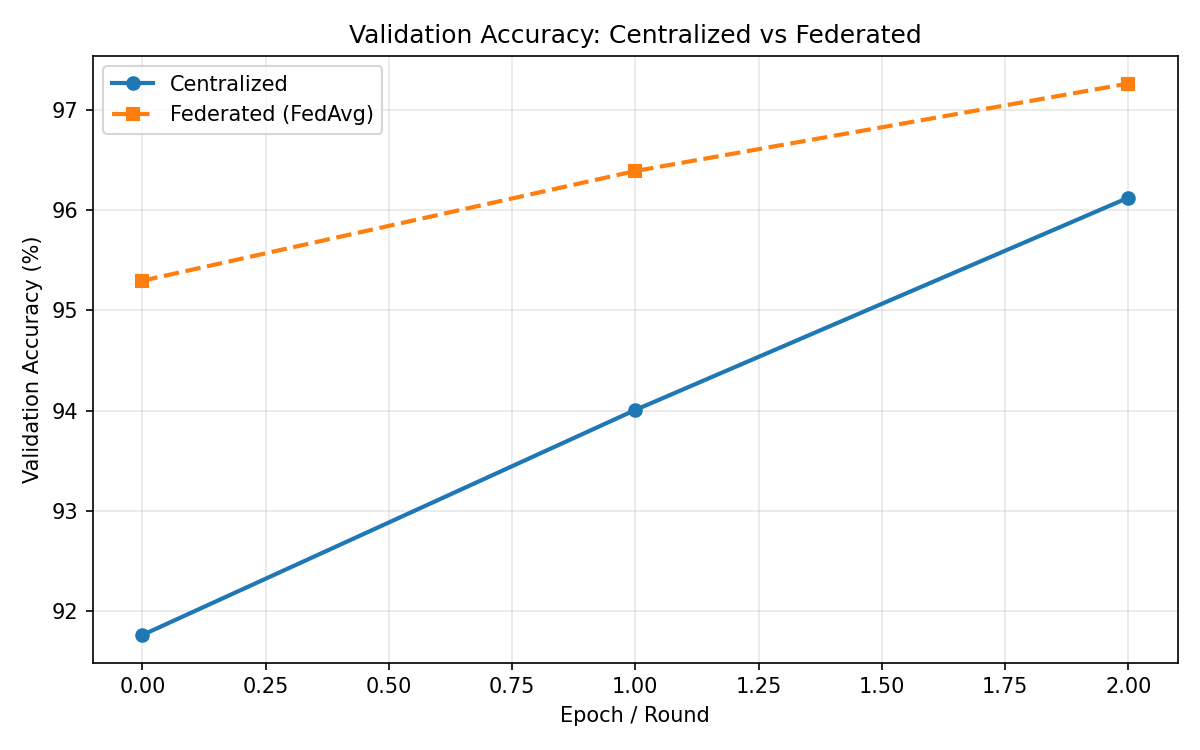
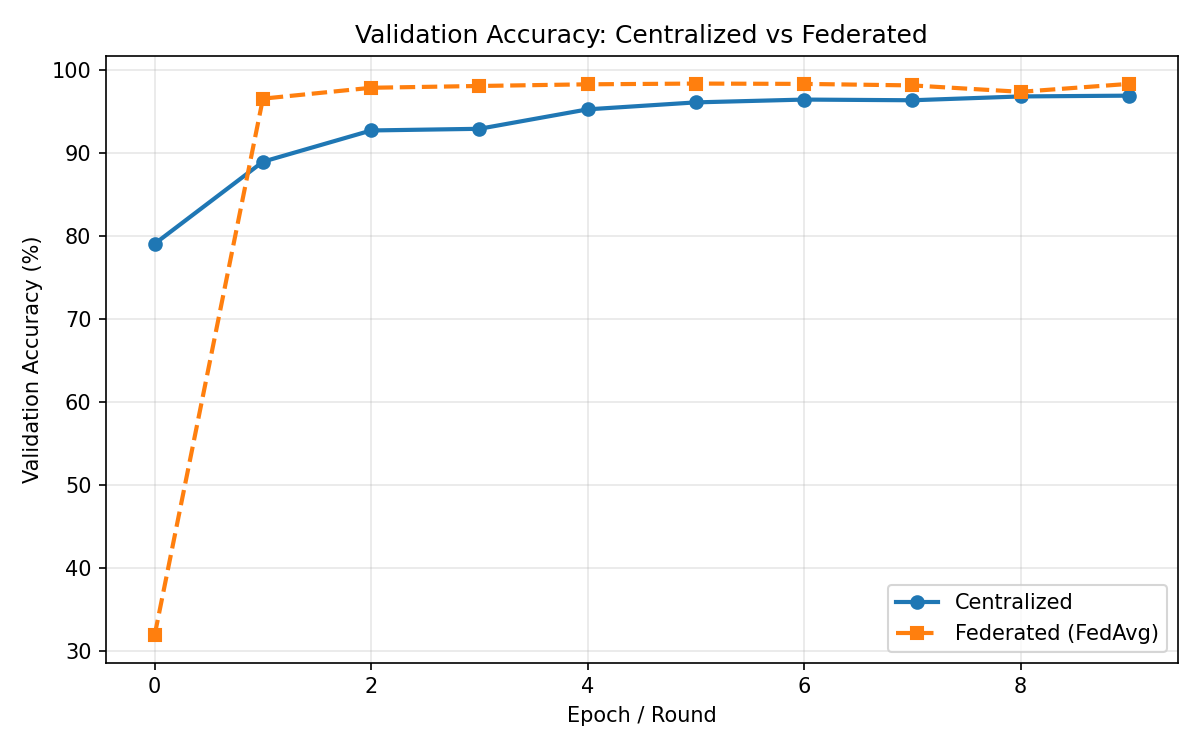
finished LR research. included some screenshots but might not be important. included grid search script

diff --git a/src/lr_grid_search.py b/src/lr_grid_search.py
@@ -1,0 +1,217 @@
+import sys
+import os
+from typing import Dict, List, Tuple, Any
+
+import torch
+from torchvision import datasets, transforms
+from torch.utils.data import DataLoader, random_split
+
+# Ensure project root is on the path when running this file directly
+sys.path.append(os.path.abspath(".."))
+sys.path.append(os.path.abspath("../.."))
+
+from src.client_training import run_fl, run_centralised_ml
+from src.data_loading import create_dirichlet_client_loaders
+from src.model_implementation import CNN
+
+
+def prepare_data(
+    batch_size: int,
+    number_of_clients: int,
+    dirichlet_alpha: float,
+) -> Tuple[
+    List[DataLoader],
+    DataLoader,
+    DataLoader,
+    DataLoader,
+]:
+    """
+    Prepare MNIST data loaders shared across all runs.
+    """
+    transform = transforms.ToTensor()
+
+    full_mnist_trainset = datasets.MNIST(
+        root="./data",
+        train=True,
+        download=True,
+        transform=transform,
+    )
+    train_size = int(0.7 * len(full_mnist_trainset))
+    val_size = len(full_mnist_trainset) - train_size
+
+    mnist_trainset, mnist_valset = random_split(
+        full_mnist_trainset, [train_size, val_size]
+    )
+    mnist_testset = datasets.MNIST(
+        root="./data",
+        train=False,
+        download=True,
+        transform=transform,
+    )
+
+    client_training_loaders = create_dirichlet_client_loaders(
+        number_of_clients=number_of_clients,
+        mnist_trainset=mnist_trainset,
+        alpha=dirichlet_alpha,
+    )
+
+    train_loader = DataLoader(mnist_trainset, batch_size=batch_size, shuffle=True)
+    val_loader = DataLoader(mnist_valset, batch_size=batch_size, shuffle=False)
+    test_loader = DataLoader(mnist_testset, batch_size=batch_size, shuffle=False)
+
+    return client_training_loaders, train_loader, val_loader, test_loader
+
+
+def run_centralised_lr_grid_search(
+    lrs: List[float],
+    number_of_epochs: int,
+    train_loader: DataLoader,
+    val_loader: DataLoader,
+    test_loader: DataLoader,
+) -> Dict[float, Dict[str, Any]]:
+    """
+    Run centralised training for each learning rate in lrs.
+    Returns a dict mapping lr -> result metrics.
+    """
+    results: Dict[float, Dict[str, Any]] = {}
+
+    for lr in lrs:
+        print("=" * 60)
+        print(f"Centralised training with lr = {lr}")
+        print("=" * 60)
+
+        model = CNN()
+        losses, val_accs = run_centralised_ml(
+            number_of_epochs=number_of_epochs,
+            train_loader=train_loader,
+            val_loader=val_loader,
+            test_loader=test_loader,
+            model=model,
+            lr=lr,
+        )
+
+        final_val_acc = val_accs[-1] if len(val_accs) > 0 else None
+        results[lr] = {
+            "losses": losses,
+            "val_accs": val_accs,
+            "final_val_acc": final_val_acc,
+        }
+
+    return results
+
+
+def run_fl_lr_grid_search(
+    lrs: List[float],
+    number_of_rounds: int,
+    number_of_clients: int,
+    epochs_per_client: int,
+    client_training_loaders: List[DataLoader],
+    val_loader: DataLoader,
+    test_loader: DataLoader,
+    participation_rate: float = 1.0,
+) -> Dict[float, Dict[str, Any]]:
+    """
+    Run federated learning for each learning rate in lrs.
+    Returns a dict mapping lr -> result metrics.
+    """
+    results: Dict[float, Dict[str, Any]] = {}
+
+    for lr in lrs:
+        print("=" * 60)
+        print(f"Federated learning with lr = {lr}")
+        print("=" * 60)
+
+        global_model = CNN()
+        losses, val_accs = run_fl(
+            number_of_rounds=number_of_rounds,
+            number_of_clients=number_of_clients,
+            epochs=epochs_per_client,
+            global_model=global_model,
+            client_training_loaders=client_training_loaders,
+            val_loader=val_loader,
+            test_loader=test_loader,
+            lr=lr,
+            participation_rate=participation_rate,
+        )
+
+        final_val_acc = val_accs[-1] if len(val_accs) > 0 else None
+        results[lr] = {
+            "losses": losses,
+            "val_accs": val_accs,
+            "final_val_acc": final_val_acc,
+        }
+
+    return results
+
+
+def main() -> None:
+    # Shared hyperparameters
+    NUMBER_OF_CLIENTS = 5
+    NUMBER_OF_EPOCHS_PER_CLIENT = 3
+    NUMBER_OF_ROUNDS = 10
+    DIRICHLET_ALPHA = 1.0
+    BATCH_SIZE = 64
+
+    # Learning rates to explore
+    centralised_lrs = [0.01, 0.03]
+    fl_lrs = [0.01, 0.05, 0.1, 0.5]
+
+    # Prepare data once and reuse for all runs
+    (
+        client_training_loaders,
+        train_loader,
+        val_loader,
+        test_loader,
+    ) = prepare_data(
+        batch_size=BATCH_SIZE,
+        number_of_clients=NUMBER_OF_CLIENTS,
+        dirichlet_alpha=DIRICHLET_ALPHA,
+    )
+
+    # Centralised LR grid search
+    centralised_results = run_centralised_lr_grid_search(
+        lrs=centralised_lrs,
+        number_of_epochs=NUMBER_OF_ROUNDS,
+        train_loader=train_loader,
+        val_loader=val_loader,
+        test_loader=test_loader,
+    )
+
+    # Federated LR grid search
+    fl_results = run_fl_lr_grid_search(
+        lrs=fl_lrs,
+        number_of_rounds=NUMBER_OF_ROUNDS,
+        number_of_clients=NUMBER_OF_CLIENTS,
+        epochs_per_client=NUMBER_OF_EPOCHS_PER_CLIENT,
+        client_training_loaders=client_training_loaders,
+        val_loader=val_loader,
+        test_loader=test_loader,
+        participation_rate=1.0,
+    )
+
+    # Simple text summary of results
+    print("\n" + "#" * 60)
+    print("Centralised LR grid search summary")
+    print("#" * 60)
+    for lr, metrics in centralised_results.items():
+        print(
+            f"LR={lr}: final val acc = {metrics['final_val_acc']:.4f}"
+            if metrics["final_val_acc"] is not None
+            else f"LR={lr}: final val acc = None"
+        )
+
+    print("\n" + "#" * 60)
+    print("Federated LR grid search summary")
+    print("#" * 60)
+    for lr, metrics in fl_results.items():
+        print(
+            f"LR={lr}: final val acc = {metrics['final_val_acc']:.4f}"
+            if metrics["final_val_acc"] is not None
+            else f"LR={lr}: final val acc = None"
+        )
+
+
+if __name__ == "__main__":
+    # Do not run anything automatically when imported
+    main()
+

diff --git a/src/overlay/comparison_overlay.py b/src/overlay/comparison_overlay.py
@@ -34,7 +34,7 @@ model = CNN()
 
 NUMBER_OF_CLIENTS = 5
 NUMBER_OF_EPOCHS = 3
-NUMBER_OF_ROUNDS = 3
+NUMBER_OF_ROUNDS = 10
 DIRICHLET_ALPHA = 1
 BATCH_SIZE = 64
 LR = 0.03
@@ -52,12 +52,12 @@ val_loader = DataLoader(mnist_valset, batch_size = BATCH_SIZE, shuffle = False)
 test_loader = DataLoader(mnist_testset, batch_size = BATCH_SIZE, shuffle=False)
 
 # %%
-central_losses, central_val_accs  =  run_centralised_ml(number_of_epochs = NUMBER_OF_EPOCHS,
+central_losses, central_val_accs  =  run_centralised_ml(number_of_epochs = NUMBER_OF_ROUNDS,
                                                       train_loader = train_loader,
                                                       val_loader = val_loader,
                                                       test_loader = test_loader,
                                                       model = model,
-                                                      lr = 0.03)
+                                                      lr = 0.01)
 
 # Now we need to aggregate the results with FedAvg
 fed_losses, fed_val_accs        =       run_fl(number_of_rounds = NUMBER_OF_ROUNDS,
@@ -67,7 +67,7 @@ fed_losses, fed_val_accs        =       run_fl(number_of_rounds = NUMBER_OF_ROUN
                                               client_training_loaders = client_training_loaders,
                                               val_loader = val_loader,
                                               test_loader = test_loader,
-                                              lr = 0.1,
+                                              lr = 0.05,
                                                participation_rate = 1)
 
 # PLOTS
